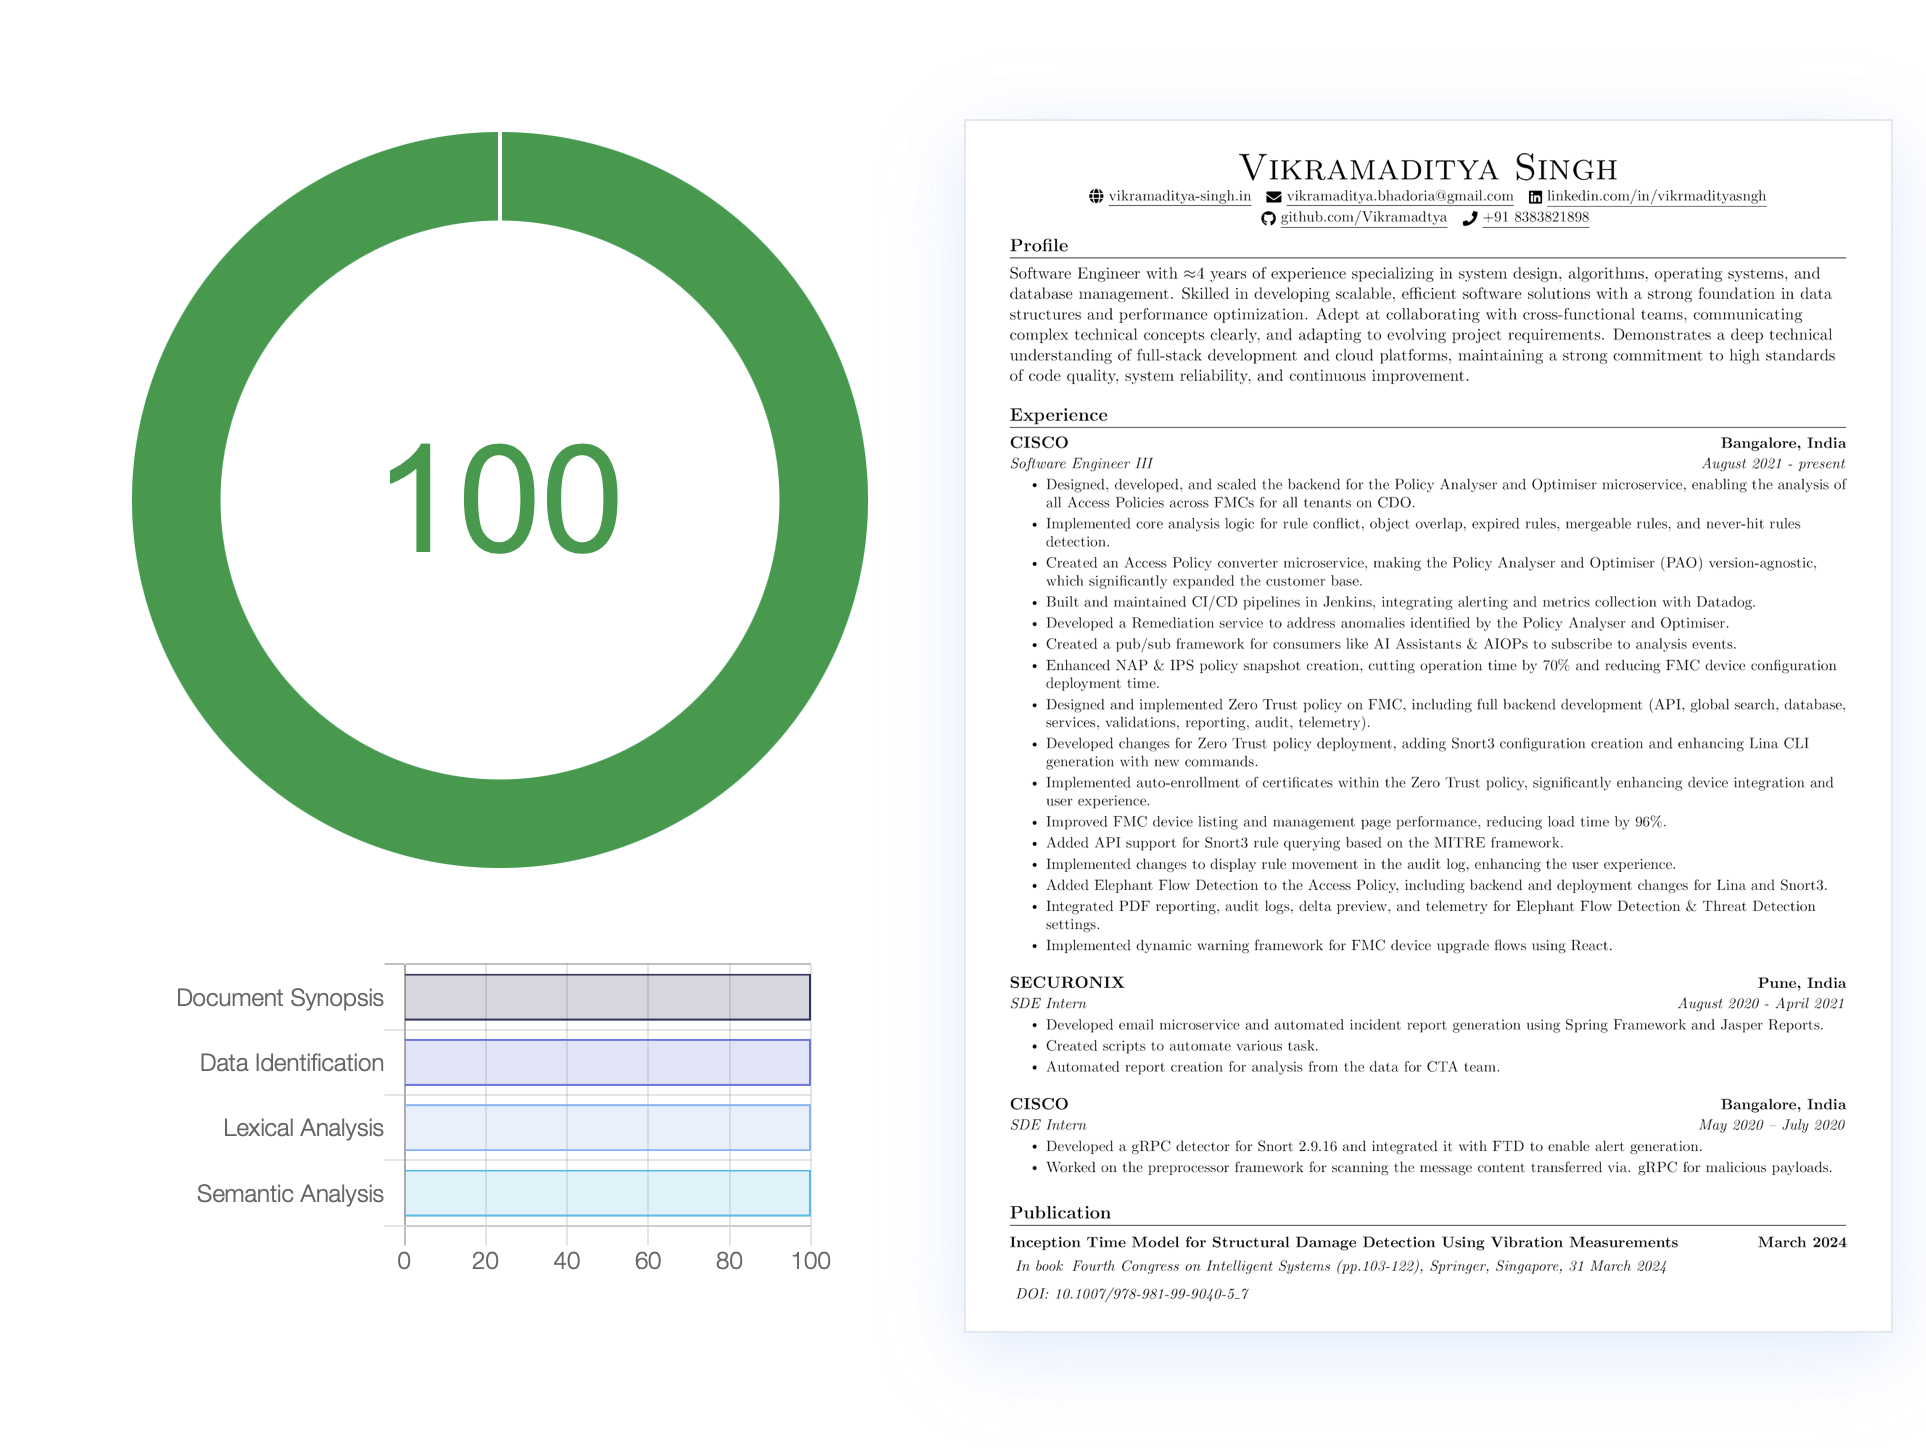
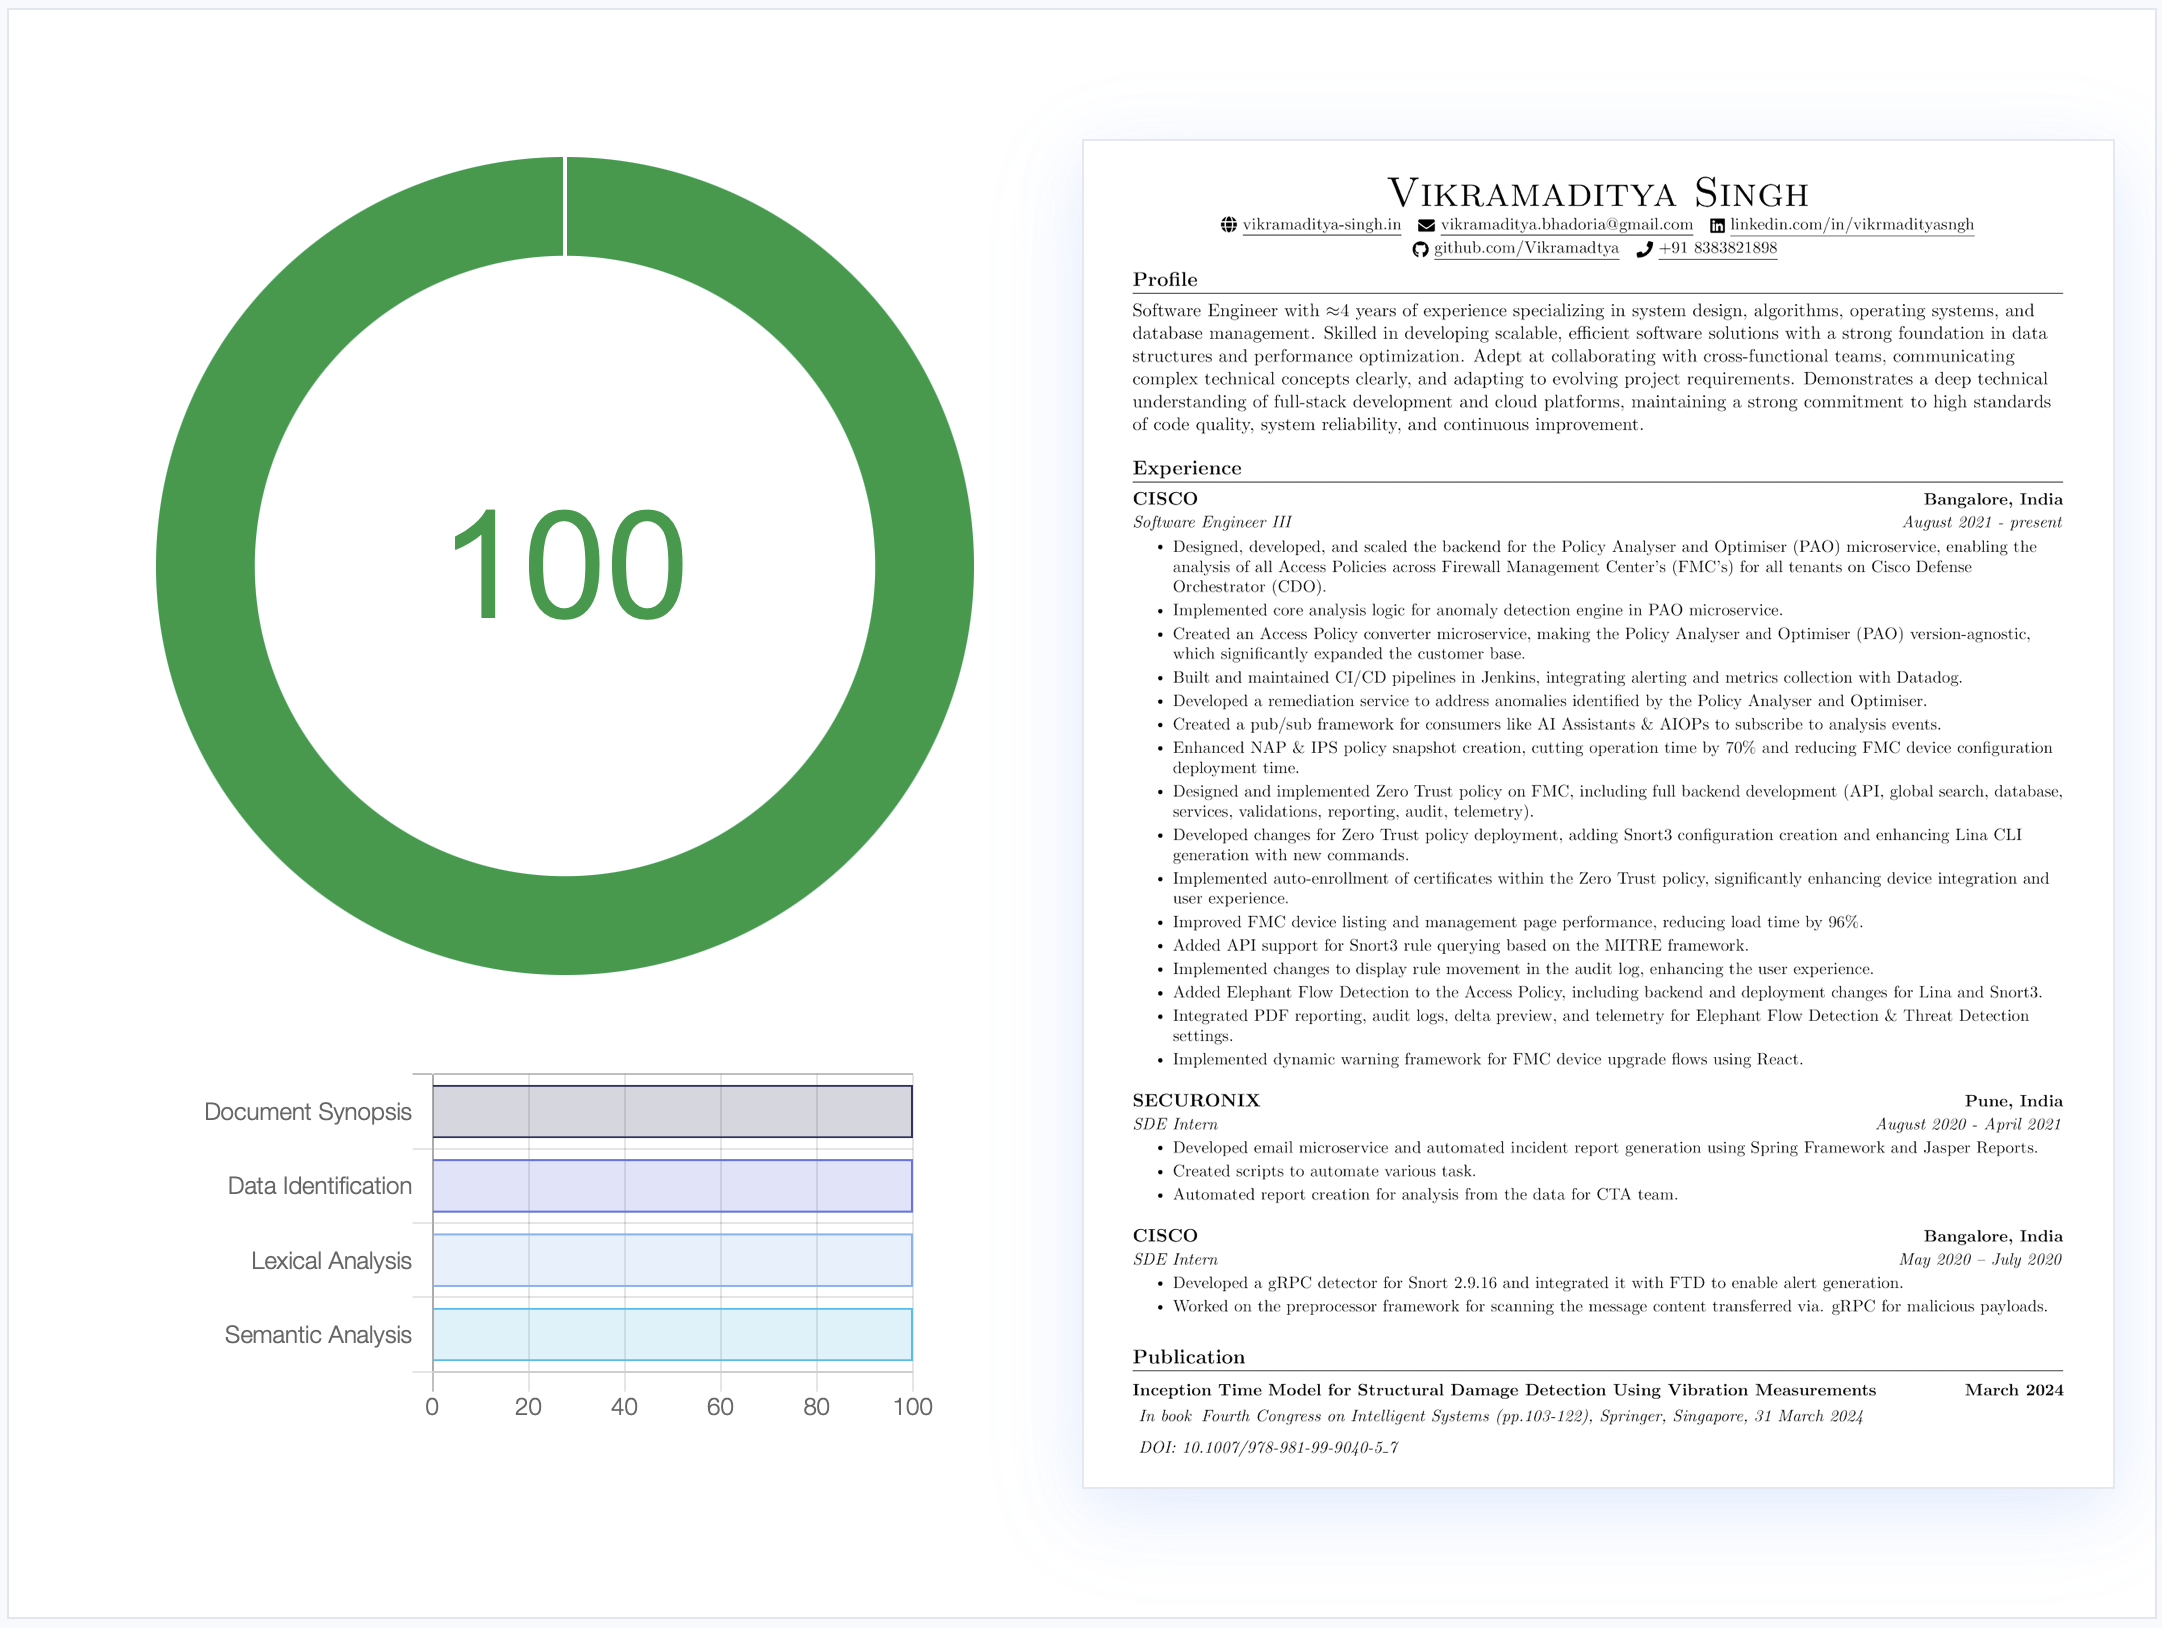
update

diff --git a/Resume 1/main.tex b/Resume 1/main.tex
@@ -144,12 +144,12 @@ Software Engineer with \(\approx\)4 years of experience specializing in system d
 {CISCO}{Bangalore, India}
 {Software Engineer III}{August 2021 - present}
 \resumeItemListStart
-\resumeItem{Designed, developed, and scaled the backend for the Policy Analyser and Optimiser microservice, enabling the analysis of all Access Policies across FMCs for all tenants on CDO.}
-\resumeItem{Implemented core analysis logic for rule conflict, object overlap, expired rules, mergeable rules, and never-hit rules detection.}
+\resumeItem{Designed, developed, and scaled the backend for the Policy Analyser and Optimiser (PAO) microservice, enabling the analysis of all Access Policies across Firewall Management Center's (FMC's) for all tenants on Cisco Defense Orchestrator (CDO).}
+\resumeItem{Implemented core analysis logic for anomaly detection engine in PAO microservice.}
 \resumeItem{Created an Access Policy converter microservice, making the Policy Analyser and Optimiser (PAO) version-agnostic, which significantly expanded the customer base.
 }
 \resumeItem{Built and maintained CI/CD pipelines in Jenkins, integrating alerting and metrics collection with Datadog.}
-\resumeItem{Developed a Remediation service to address anomalies identified by the Policy Analyser and Optimiser.}
+\resumeItem{Developed a remediation service to address anomalies identified by the Policy Analyser and Optimiser.}
 \resumeItem{Created a pub/sub framework for consumers like AI Assistants \& AIOPs to subscribe to analysis events.}
 \resumeItem{Enhanced NAP \& IPS policy snapshot creation, cutting operation time by 70\% and reducing FMC device configuration deployment time.}
 \resumeItem{Designed and implemented Zero Trust policy on FMC, including full backend development (API, global search, database, services, validations, reporting, audit, telemetry).}
@@ -216,6 +216,21 @@ message content transferred via. gRPC for malicious payloads.}
 \textit{\small  DOI: 10.1007/978-981-99-9040-5\_7}
 \vspace{-13pt}
 
+%
+%-----------PROGRAMMING SKILLS-----------
+\section{Technical Skills}
+\begin{itemize}[leftmargin=0.01in, label={}]
+	\small{\item{
+		\textbf{Languages}{: Java, SQL, Javascript, Python, C, Perl} \\
+		\textbf{Frameworks}{: ReactJs, NextJs, Spring, Spring Boot, Hibernate} \\
+		\textbf{Technologies}{: Docker, Jenkins, Git, Perforce, Terraform, Lucene} \\
+		\textbf{Databases}{: MariaDB, MongoDB, Redis } \\
+		\textbf{Cloud}{: AWS} \\
+		\textbf{Developer Tools}{: Intellij IDEA, Postman, Data Dog, Draw.io, LocalStack} \\
+	}}
+\end{itemize}
+\vspace{-16pt}
+
 %-----------PROJECTS-----------
 \section{Projects}
 \vspace{-5pt}
@@ -224,6 +239,12 @@ message content transferred via. gRPC for malicious payloads.}
 {\textbf{Domain Generating Algorithm Detection} $|$ \emph{Python, Keras, Pandas, Google Collab}}{\href{https://github.com/Vikramadtya/DGA-Detector}{code}}
 \resumeItemListStart
 \resumeItem{Detected algorithmically generated domains with 96\% accuracy and classified them by DGA variant with 87\% accuracy, using clustering to identify unknown DGA variants.}
+\resumeItemListEnd
+\vspace{-13pt}
+\resumeProjectHeading
+{\textbf{Sort Visualizer} $|$ \emph{NextJs, Vercel}}{\href{https://viki-sort-visualizer.vercel.app}{demo} $|$ \href{https://github.com/Vikramadtya/visualizer}{code}}
+\resumeItemListStart
+\resumeItem{Developed a dynamic web application that visually demonstrates the functionality of various sorting algorithms like Quick Sort, Merge Sort, Bubble Sort, and more.}
 \resumeItemListEnd
 \vspace{-13pt}
 \resumeProjectHeading
@@ -302,21 +323,6 @@ Deployed a LoRaWAN network to extend range and overcome connectivity limitations
 {10th from CBSE Board}{Cum. GPA: 9.8}
 
 \resumeSubHeadingListEnd
-
-%
-%-----------PROGRAMMING SKILLS-----------
-\section{Technical Skills}
-\begin{itemize}[leftmargin=0.01in, label={}]
-	\small{\item{
-		\textbf{Languages}{: Java, SQL, Javascript, Python, C, Perl} \\
-		\textbf{Frameworks}{: ReactJs, NextJs, Spring, Spring Boot, Hibernate} \\
-		\textbf{Technologies}{: Docker, Jenkins, Git, Perforce,Terraform, Lucene} \\
-		\textbf{Databases}{: MariaDB, MongoDB, Redis } \\
-		\textbf{Cloud}{: AWS} \\
-		\textbf{Developer Tools}{: Intellij IDEA, Postman, Data Dog, Draw.io, LocalStack} \\
-	}}
-\end{itemize}
-\vspace{-16pt}
 
 
 
